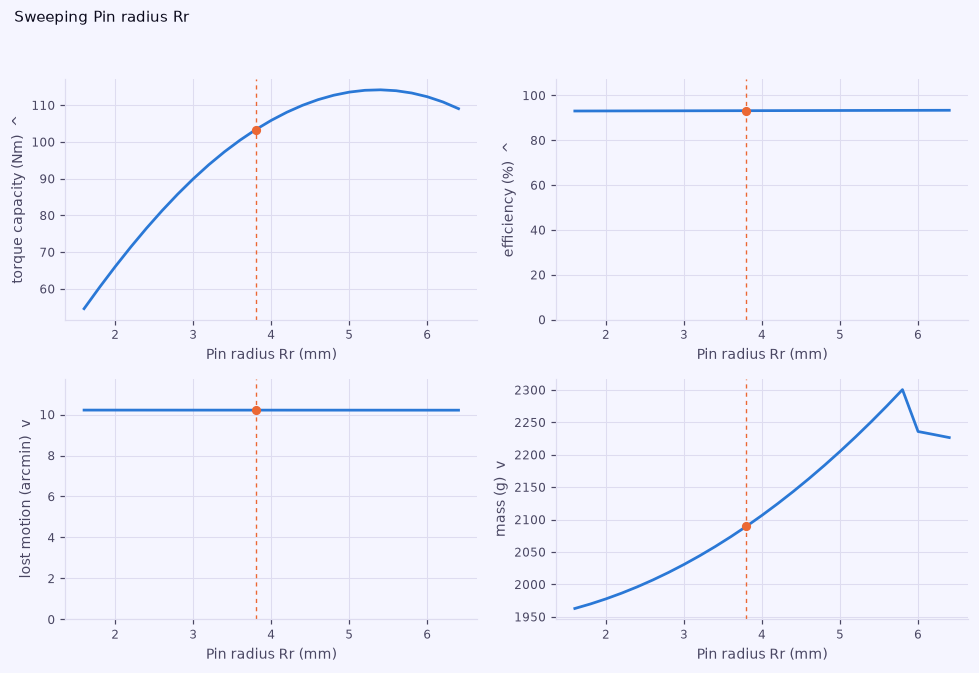
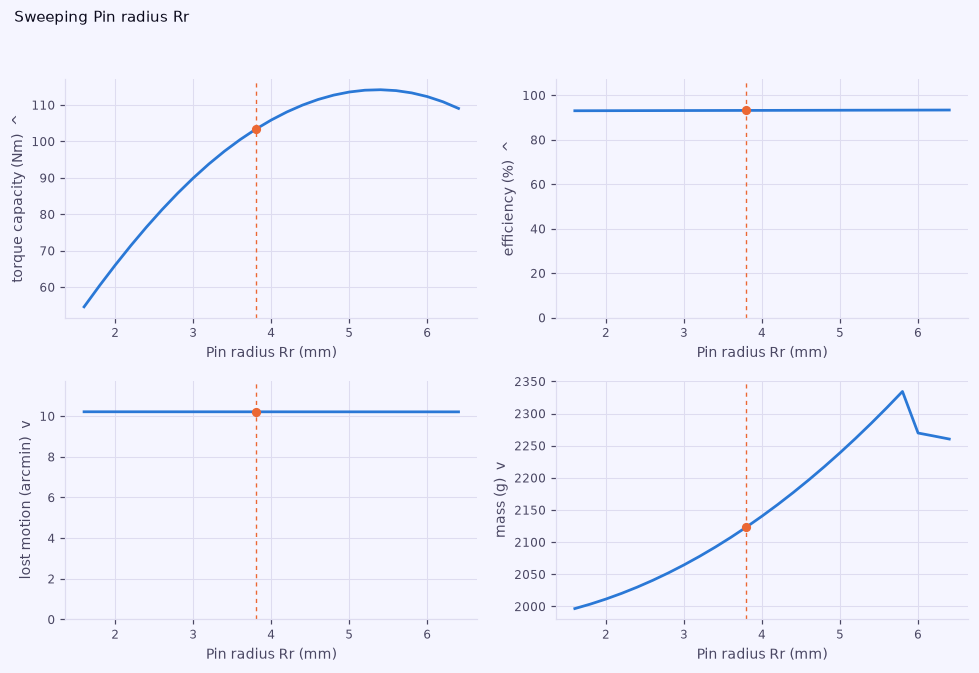
What orbits on the crank is the disc, its bearing and its cam
The shaking force and the reflected inertia were worked out from the disc
alone. Two more things in each disc's plane have their centre at E and go
round with it:

- the cam bearing, whose cup is pressed into the disc bore and whose rollers'
  centres ride the cam - it orbits and spins exactly as the disc does, so it
  is in both the unbalance and the reflected inertia, as an annulus of its
  own mass;
- the cam itself. It is part of the shaft, but a circle centred at E with the
  shaft's section inside it puts its whole first moment at E - the shaft's
  share sits on the axis and adds nothing - so it throws what a loose disc of
  its size would. A test counts that over a grid of the plane rather than
  taking it on trust. It is in the unbalance only: the shaft it belongs to is
  turned by the motor directly, and has never been in the reflected inertia,
  which the README now says.

report.json gains mass.orbiting_mass_g, one plane's worth, and the
UNBALANCE_FORCE warning names what is throwing the force.

Numbers, on the nine designs and a single-disc 21:1 beside them:

- Unbalance force, single-disc 21:1: 1.12 to 1.49 N at 1000 rpm, +33%.
  Evenly phased drives still cancel it to zero.
- Unbalance couple, up 22% to 36% on the presets, 33% on the ring-output
  21:1 and 5.1% on ground steel, whose 467 g discs were already most of it.
- Reflected inertia, up 4.2% to 5.6% on the presets with a cam bearing and
[…]

diff --git a/cycloidgen/analysis/mass.py b/cycloidgen/analysis/mass.py
@@ -66,10 +66,17 @@ class MassResult:
     fasteners_mass_g: float
 
     disc_inertia_kg_mm2: float         # about its own centre
-    reflected_inertia_kg_mm2: float    # whole stack, seen at the input shaft
+    #: Everything that moves the way a disc moves - the discs and the cam
+    #: bearings pressed into them - seen at the input shaft.  Not the shaft
+    #: itself, which the motor turns directly rather than through anything.
+    reflected_inertia_kg_mm2: float
 
-    unbalance_force_N: float           # residual, at the rated input speed
+    #: Residual, at the rated input speed, of everything orbiting at E in each
+    #: disc's plane: the disc, its cam bearing and the cam it runs on.
+    unbalance_force_N: float
     unbalance_couple_Nmm: float
+    #: That orbiting mass, one disc's plane of it, grams.
+    orbiting_mass_g: float
     balanced: bool
 
     web_shear_MPa: float
@@ -291,12 +298,34 @@ def analyse_mass(spec: GearSpec, bores: SeatBores | None = None,
     # is 1/N off the carrier and *zero* off the ring, where the disc does not
     # rotate in the ground frame at all: a ring-output drive reflects only the
     # orbiting mass back to the motor.
-    reflected = n * (m_disc_kg * spec.eccentricity ** 2
-                     + disc_inertia * spec.disc_speed_ratio ** 2)
+    #
+    # The cam bearing goes with it.  Its cup is pressed into the disc bore and
+    # its rollers' centres ride the cam, so it orbits and spins exactly as the
+    # disc does - which is also why it is weighed in the same plane below.
+    cam = next((c for c in bearings if c.role == "Eccentric cam bearing"
+                and c.fitted and c.fits and c.bearing is not None and c.count), None)
+    if cam is not None:
+        part = cam.bearing
+        m_cam_bearing_kg = cam.count * part.mass_g / n / 1000.0
+        cam_bearing_inertia = (m_cam_bearing_kg
+                               * (part.outer ** 2 + part.bore ** 2) / 8.0)
+    else:
+        m_cam_bearing_kg = cam_bearing_inertia = 0.0
+    reflected = n * ((m_disc_kg + m_cam_bearing_kg) * spec.eccentricity ** 2
+                     + (disc_inertia + cam_bearing_inertia)
+                     * spec.disc_speed_ratio ** 2)
 
     # ---- unbalance ----------------------------------------------------------
+    # Everything in a disc's plane whose centre is at E: the disc, its cam
+    # bearing, and the cam itself.  The cam is part of the shaft, but a circle
+    # centred at E with the shaft's own section inside it puts its *whole*
+    # area's first moment at E - the shaft's share sits on the axis and adds
+    # nothing - so it throws the same force a loose disc of its size would.
+    m_cam_kg = (math.pi * (spec.cam_diameter / 2.0) ** 2 * t
+                * _MM3_TO_CM3 * rho_shaft / 1000.0)
+    orbiting_kg = m_disc_kg + m_cam_bearing_kg + m_cam_kg
     omega = spec.input_rpm * 2.0 * math.pi / 60.0
-    single = m_disc_kg * (spec.eccentricity / 1000.0) * omega ** 2   # N, one disc
+    single = orbiting_kg * (spec.eccentricity / 1000.0) * omega ** 2  # N, one plane
     phases = np.asarray(spec.disc_phases)
     resultant = float(np.hypot(np.cos(phases).sum(), np.sin(phases).sum()))
     force = single * resultant
@@ -348,6 +377,7 @@ def analyse_mass(spec: GearSpec, bores: SeatBores | None = None,
         reflected_inertia_kg_mm2=reflected,
         unbalance_force_N=force,
         unbalance_couple_Nmm=couple,
+        orbiting_mass_g=orbiting_kg * 1000.0,
         balanced=resultant < 1e-9,
         web_shear_MPa=web_shear,
         web_shear_allow_MPa=spec.disc_mat.shear_allow_MPa,

diff --git a/tests/test_thermal_mass.py b/tests/test_thermal_mass.py
@@ -3,6 +3,7 @@ from __future__ import annotations
 
 import math
 
+import numpy as np
 import pytest
 
 from cycloidgen.analysis.mass import analyse_mass
@@ -151,16 +152,52 @@ def test_radius_of_gyration_sits_inside_the_disc():
     assert 0.0 < k < preset(15).disc_outer_radius
 
 
+def _cam_bearing(spec):
+    """One disc's cam bearing: its mass in kg and its inertia in kg mm^2."""
+    from cycloidgen.analysis.bearings import bearing_schedule
+
+    cam = next(c for c in bearing_schedule(spec) if c.role == "Eccentric cam bearing")
+    part = cam.bearing
+    kg = cam.count * part.mass_g / spec.disc_count / 1000.0
+    return kg, kg * (part.outer ** 2 + part.bore ** 2) / 8.0
+
+
 def test_reflected_inertia_combines_the_orbit_and_the_spin():
     """The disc orbits at input speed and spins at output speed, so the input
     sees ``m*E^2 + J/ratio^2`` per disc.  Neither term is negligible: the orbit
-    radius is small but the disc's own inertia is large."""
+    radius is small but the disc's own inertia is large.  The cam bearing
+    pressed into the disc does both with it, so it is in both terms."""
     spec = preset(15)
     m = analyse_mass(spec)
-    orbit = (m.disc_mass_g / 1000.0) * spec.eccentricity ** 2
-    spin = m.disc_inertia_kg_mm2 / spec.ratio ** 2
+    bearing_kg, bearing_inertia = _cam_bearing(spec)
+    assert bearing_kg > 0.0
+    orbit = (m.disc_mass_g / 1000.0 + bearing_kg) * spec.eccentricity ** 2
+    spin = (m.disc_inertia_kg_mm2 + bearing_inertia) / spec.ratio ** 2
     assert m.reflected_inertia_kg_mm2 == pytest.approx(
         spec.disc_count * (orbit + spin), rel=1e-9)
+
+
+def test_what_orbits_is_the_disc_its_bearing_and_its_cam():
+    """Each disc's plane throws the disc, the bearing in its bore and the cam
+    that bearing runs on.  The cam is the shaft's, but a circle centred at E
+    with the shaft's section inside it has all of its first moment at E."""
+    spec = preset(15)
+    m = analyse_mass(spec)
+    bearing_kg, _ = _cam_bearing(spec)
+    cam_g = (math.pi * (spec.cam_diameter / 2.0) ** 2 * spec.disc_thickness
+             * 1e-3 * spec.shaft_mat.density_g_cm3)
+    assert m.orbiting_mass_g == pytest.approx(
+        m.disc_mass_g + 1000.0 * bearing_kg + cam_g, rel=1e-9)
+
+    # The first-moment claim itself, counted over a grid of the cam's plane:
+    # shaft and cam together, against the cam alone at E.
+    r_cam, r_shaft = spec.cam_diameter / 2.0, spec.input_shaft_diameter / 2.0
+    E = spec.eccentricity
+    assert r_shaft + E < r_cam                     # the shaft is inside the cam
+    x, y = np.meshgrid(*(np.linspace(-r_cam - E, r_cam + E, 1201),) * 2)
+    cam_only = (x - E) ** 2 + y ** 2 <= r_cam ** 2
+    material = cam_only | (x ** 2 + y ** 2 <= r_shaft ** 2)
+    assert x[material].sum() == pytest.approx(E * cam_only.sum(), rel=1e-3)
 
 
 def test_a_longer_crank_throw_costs_reflected_inertia():
@@ -197,7 +234,7 @@ def test_the_couple_uses_the_real_disc_pitch():
     spec = preset(15)
     spec.disc_count = 2
     m = analyse_mass(spec)
-    single = ((m.disc_mass_g / 1000.0) * (spec.eccentricity / 1000.0)
+    single = ((m.orbiting_mass_g / 1000.0) * (spec.eccentricity / 1000.0)
               * (spec.input_rpm * 2 * math.pi / 60.0) ** 2)
     arm = spec.disc_thickness + spec.disc_gap
     assert m.unbalance_couple_Nmm == pytest.approx(single * arm, rel=1e-6)

diff --git a/cycloidgen/analysis/__init__.py b/cycloidgen/analysis/__init__.py
@@ -397,7 +397,8 @@ def analyse(spec: GearSpec) -> DesignAnalysis:
     if mass.unbalance_force_N > 0.5 * spec.output_torque_Nm * 1000.0 / max(
             spec.output_bolt_circle_radius, 1e-9):
         rep.add(Severity.WARNING, "UNBALANCE_FORCE",
-                f"The orbiting disc throws {mass.unbalance_force_N:.0f} N at "
+                f"What orbits on the crank - the disc, its cam and its bearing - "
+                f"throws {mass.unbalance_force_N:.0f} N at "
                 f"{spec.input_rpm:g} rpm, comparable to the working load. Add a "
                 f"counterweight or a second disc at 180 degrees.",
                 mass.unbalance_force_N, 0.0)

diff --git a/cycloidgen/report/build.py b/cycloidgen/report/build.py
@@ -182,6 +182,7 @@ def report_dict(a: DesignAnalysis) -> dict:
             "reflected_inertia_kg_mm2": a.mass.reflected_inertia_kg_mm2,
             "unbalance_force_N": a.mass.unbalance_force_N,
             "unbalance_couple_Nmm": a.mass.unbalance_couple_Nmm,
+            "orbiting_mass_g": a.mass.orbiting_mass_g,
             "web_shear_MPa": a.mass.web_shear_MPa,
             "web_shear_allow_MPa": a.mass.web_shear_allow_MPa,
             "min_web_mm": a.mass.min_web_mm,

diff --git a/README.md b/README.md
@@ -50,7 +50,7 @@
   what motor you have and let it pick the reduction: a motor is a torque-speed
   curve, not the number on its label, and what it can turn is what the drive is
   worth.
-- **Nothing is asserted that is not verified.** 1,306 tests, and where two parts
+- **Nothing is asserted that is not verified.** 1,317 tests, and where two parts
   of the app describe the same gearbox they are checked against each other —
   the 3D mesh against the volume the exported solid encloses, the export
   manifest against the files that land on disk.
@@ -486,8 +486,9 @@ Beyond the geometry checks, every design gets a datasheet:
   envelope, and the tie bolts and nuts, from their ISO dimensions — each held
   to published masses in the tests.
   Reflected inertia at the input, and the shaking force a single disc throws —
-  which goes as the square of speed. Evenly phased discs cancel the force and
-  leave a couple.
+  the disc, the cam it rides and the bearing between them, all orbiting
+  together — rising as the square of speed. Evenly phased discs cancel the
+  force and leave a couple.
 - **Disc web stress.** The ligament beside the output holes is the thinnest
   structural member in the drive and nothing else was looking at it.
 
@@ -843,11 +844,11 @@ solves; pin position error, profile error and runout are the manufacturing half
 and are not modelled, so a real drive measures worse. The thermal model is a single
 lumped body in still air with no conduction into whatever the gearbox is bolted
 to. Bearing catalogue values are nominal metric-series figures, and a bearing's
-mass is estimated from its envelope rather than read from a maker's table; the
-unbalance and the reflected inertia count the discs alone, not the cam bearings
-orbiting with them, and of the bolts only the tie bolts are weighed: the
-motor's and the output's have no length until the drive knows what they go
-into. PV limits are
+mass is estimated from its envelope rather than read from a maker's table. Of
+the bolts only the tie bolts are weighed: the motor's and the output's have no
+length until the drive knows what they go into. The reflected inertia is what
+moves with the discs, and leaves out the input shaft the motor turns directly.
+PV limits are
 dry-against-steel design-guide values. The lubrication model builds a
 Dowson-Hamrock film for a *line* contact and applies it to the two conforming
 ones as well, where the formula was not derived — their film is capped at the
@@ -899,7 +900,7 @@ cycloidgen/
 docs/           the API reference and the README's figures
 tools/          what draws the banner, the icon, the logo assets, the
                 installer's bitmaps and the screenshots
-tests/          1,306 tests; the envelope, pin-in-hole, clearance-sign,
+tests/          1,317 tests; the envelope, pin-in-hole, clearance-sign,
                 mesh-versus-solid and animation-closes tests matter most
 ```
 
@@ -915,7 +916,7 @@ the Outputs tab, `--list-outputs` and the table above all read it.
 .venv\Scripts\python -m pytest -q
 ```
 
-1,306 tests, about 700 s. Most of that is CadQuery writing solids; the pure
+1,317 tests, about 700 s. Most of that is CadQuery writing solids; the pure
 analysis tests run in a few seconds. The Qt tests run headless
 (`QT_QPA_PLATFORM=offscreen`, set by the test modules themselves) and redirect
 preferences into a temporary file, so the suite cannot rearrange your own
